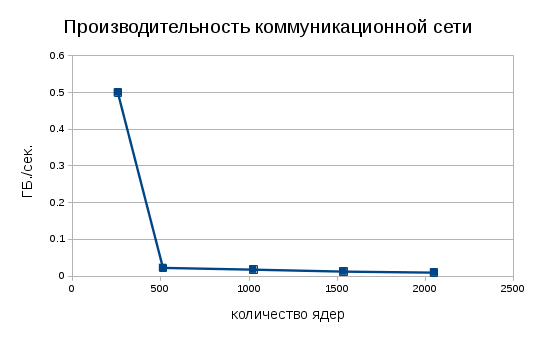
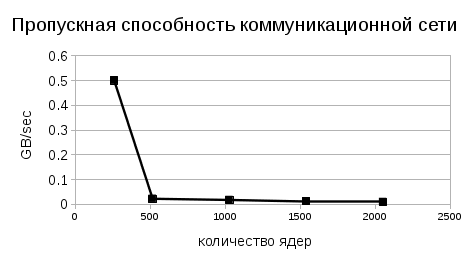
passed page 80

Changed region(s): [[0.0297, 0.1504, 0.9788, 0.9624], [0.0297, 0.0602, 0.9788, 0.1203]]

diff --git a/Dissertation/part4.tex b/Dissertation/part4.tex
@@ -178,7 +178,7 @@ W_A = \frac{1}{P_{SUB}}\frac{N_X\times N_Y \times N_Z \times 24}{T_A}
 $$
 для расчета раздела ВВС <<Ломоносов>>, оснащенного GPU, $N_X = 102, N_Y = 6, N_Z = 6, P_{SUB}  = 1$
 
-Значения $T_A$ приведены в таблице \ref{Lomonosov_GPU_W_A} и на рисунке \ref{Lomonosov_GPU_W_A}. Эффективный коммуникационный размер в данном случае равен 239 (рисунок \ref{scale_W_A_Lomonosov_GPU}).
+Значения $T_A$ приведены в таблице \ref{Lomonosov_GPU_W_A} и на рисунке \ref{Lomonosov_GPU_W_A}. Эффективный коммуникационный размер в данном случае равен 239 (рисунок \ref{scale_W_A_Lomonosov_GPU_exp_fit}).
 
 \begin{table}[ht]
 \caption{Время выполнения операции MPI\_Allreduce для раздела ВВС <<Ломоносов>>, оснащенного GPU.}
@@ -201,11 +201,11 @@ $$
 	
 	
 	\begin{center}
-		\includegraphics[height=10cm,keepaspectratio]{images/W_A_Lomonosov_on_weak_eff.png}
+		\includegraphics[height=7cm,keepaspectratio]{images/W_A_Lomonosov_on_weak_eff.png}
 		\caption{
-			Производительность коммуникационной сети для коллективных пересылок (величина $W_S$, формула \ref{Net_performance_peer}). Расчет на сетке $100 \times 6 \times 6$ узла на <<Ломоносов>>, раздел с GPU. 
+			Пропускная способность коммуникационной сети для коллективных пересылок (величина $W_S$, формула \ref{Net_performance_peer}). Расчет на сетке $102 \times 6 \times 6$ узла на <<Ломоносов>>, раздел с GPU. 
 		}
-		\label{scale_W_A_Lomonosov_GPU}
+		\label{scale_W_A_Lomonosov_GPU_exp_fit}
 	\end{center} 
 \end{figure}
 
@@ -213,9 +213,9 @@ $$
 	
 	
 	\begin{center}
-		\includegraphics[height=10cm,keepaspectratio]{images/W_A_Lomonosov_Gauss.png}
+		\includegraphics[height=7cm,keepaspectratio]{images/W_A_Lomonosov_Gauss.png}
 		\caption{
-				Производительность коммуникационной сети для коллективных пересылок (величина $W_A$, формула \ref{Net_performance_collective}) - синие точки, и ее аппроксимация гауссовой кривой. Расчет на сетке $100 \times 6 \times 6$ узла на <<Ломоносов>>, раздел с GPU. 
+				Производительность коммуникационной сети для коллективных пересылок (величина $W_A$, формула \ref{Net_performance_collective}). Расчет на сетке $100 \times 6 \times 6$ узла на <<Ломоносов>>, раздел с GPU. 
 		}
 		\label{scale_W_A_Lomonosov}
 	\end{center} 
@@ -256,7 +256,8 @@ $$
 Эффективность $\eta^{weak}$, количество процессорных ядер, соответствующее каждому значению эффективности, и результирующее значение $W_S$ показаны в таблице \ref{MVS100K_W_S} 
 
 \begin{table}[ht]
-	\caption{Эффективность в слабом смысле и производительность коммуникационной сети для МВС-100К.}
+\caption{Эффективность в слабом смысле и производительность коммуникационной сети для МВС-100К.}
+\begin{center}
 	\begin{tabular}{|c|c|c|c|}
 		\hline
 		количество  & Эффективность & Время пересылки & Производительность  \\
@@ -270,15 +271,14 @@ $$
 		\hline
 	\end{tabular}
 	\label{MVS100K_W_S}
-\end{table} 
+\end{center}
+\end{table}
 
 \begin{figure}[h]
-	
-	
 	\begin{center}
-		\includegraphics[height=10cm,keepaspectratio]{images/W_S_MVS_100K_on_weak_eff.png}
+		\includegraphics[height=7cm,keepaspectratio]{images/W_S_MVS_100K_on_weak_eff.png}
 		\caption{
-			Производительность коммуникационной сети для парных пересылок (величина $W_S$, формула \ref{Net_performance_peer}). Расчет на сетке $N_X \times 128 \times 128$ узла на МВС-100К. 
+			Производительность коммуникационной сети для парных пересылок (величина $W_S$, формула \ref{Net_performance_peer}). Расчет на сетке $N_X \times 128 \times 128$ узла на МВС-100К, здесь $N_X$ совпадает с количеством процессорных ядер. 
 		}
 		\label{scale_W_S_MVS_100K}
 	\end{center} 
@@ -289,9 +289,9 @@ $$
  
 \begin{figure}[h]
 	\begin{center}
-		\includegraphics[height=10cm,keepaspectratio]{images/W_S_MVS_100K_Gaussf.png}
+		\includegraphics[height=7cm,keepaspectratio]{images/W_S_MVS_100K_Gaussf.png}
 		\caption{
-			Производительность коммуникационной сети для парных пересылок (величина $W_S$, формула \ref{Net_performance_peer}) - синие точки, и ее аппроксимация гауссовой кривой. Расчет на сетке $N_X \times 128 \times 128$ узла на МВС-100К. 
+			Производительность коммуникационной сети для парных пересылок (величина $W_S$, формула \ref{Net_performance_peer}) - синие точки, и ее аппроксимация гауссовой кривой. Расчет на сетке $N_X \times 128 \times 128$ узла на МВС-100К, здесь $N_X$ совпадает с количеством процессорных ядер.
 		}
 		\label{scale_W_S_MVS_100K_Gauss}
 	\end{center} 
